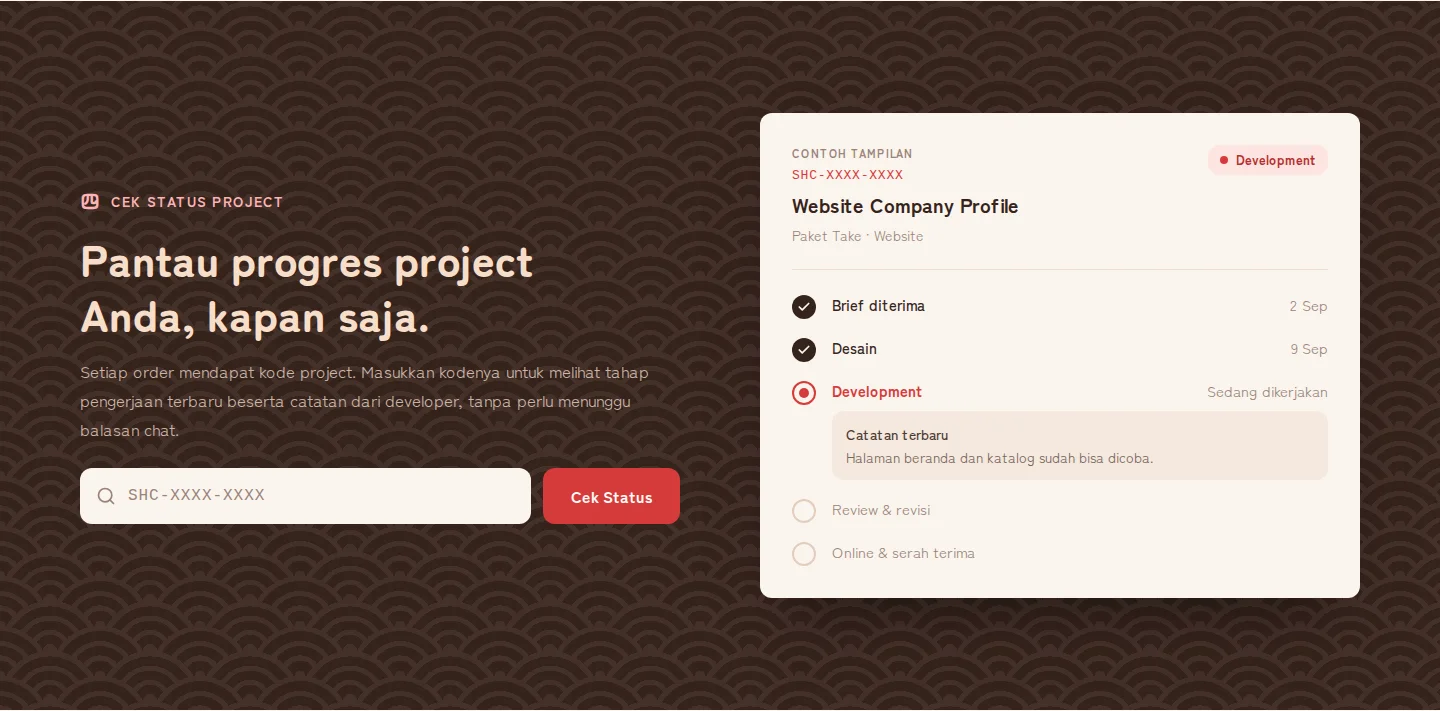
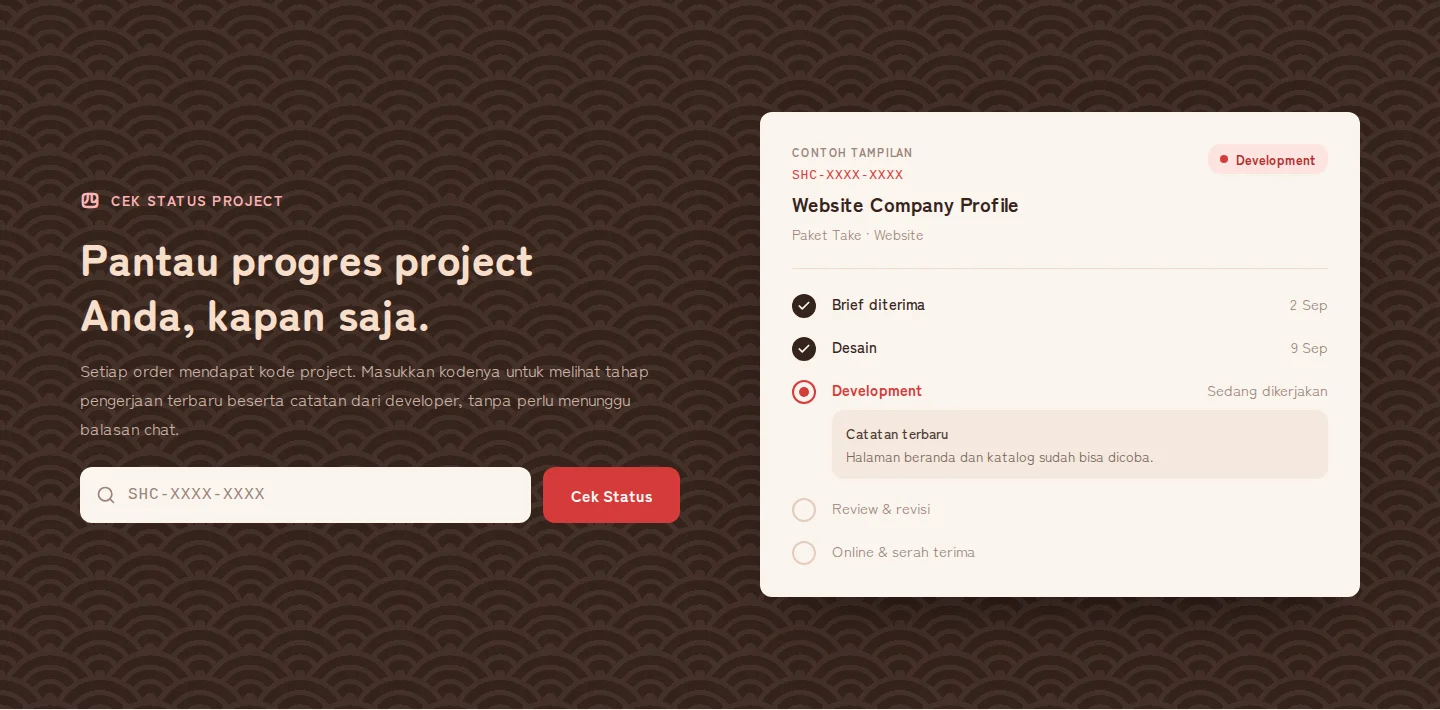
Drop the WordPress service, show only Monshika and yushika.my.id in the portfolio
- Five services laid out as three plus two wider cards
- Portfolio grid keeps rows full for any number of items
- Default WhatsApp number in 62 format; README screenshots refreshed

diff --git a/resources/js/components/landing/services.tsx b/resources/js/components/landing/services.tsx
@@ -1,12 +1,6 @@
-import {
-    AppWindow,
-    Plug,
-    Server,
-    ShieldCheck,
-    Smartphone,
-    Wrench,
-} from 'lucide-react';
+import { AppWindow, Plug, Server, ShieldCheck, Smartphone } from 'lucide-react';
 import { Container, SectionHeading } from '@/components/landing/primitives';
+import { cn } from '@/lib/utils';
 
 const services = [
     {
@@ -38,13 +32,6 @@ const services = [
         tags: ['Hapus malware', 'Tutup celah'],
     },
     {
-        icon: Wrench,
-        title: 'Perbaikan WordPress',
-        description:
-            'Plugin error, tampilan berantakan, website lambat, atau mati setelah update. Masalahnya dicari sampai ke akar, bukan sekadar ditambal.',
-        tags: ['WordPress', 'Elementor'],
-    },
-    {
         icon: Plug,
         title: 'Integrasi Sistem',
         description:
@@ -73,12 +60,18 @@ export function Services() {
                     </p>
                 </div>
 
-                <ul className="grid gap-3.5 md:grid-cols-3 md:gap-6">
+                {/* Six columns: the first row takes three cards, the second row two wider ones, so no gap is left. */}
+                <ul className="grid gap-3.5 md:grid-cols-6 md:gap-6">
                     {services.map(
-                        ({ icon: Icon, title, description, tags }) => (
+                        ({ icon: Icon, title, description, tags }, index) => (
                             <li
                                 key={title}
-                                className="border-line bg-surface flex flex-col gap-3 rounded-xl border p-6 sm:gap-5 sm:p-9"
+                                className={cn(
+                                    'border-line bg-surface flex flex-col gap-3 rounded-xl border p-6 sm:gap-5 sm:p-9',
+                                    index < 3
+                                        ? 'md:col-span-2'
+                                        : 'md:col-span-3',
+                                )}
                             >
                                 <div className="flex items-center gap-3.5 md:flex-col md:items-start md:gap-5">
                                     <span className="bg-shu-soft text-shu flex size-11 shrink-0 items-center justify-center rounded-xl sm:size-[52px]">

diff --git a/resources/js/data/portfolio.ts b/resources/js/data/portfolio.ts
@@ -27,34 +27,4 @@ export const portfolio: PortfolioItem[] = [
         image: '/images/portfolio/yushika-portfolio.webp',
         url: 'https://yushika.my.id',
     },
-    {
-        title: 'RuangKelas',
-        category: 'Sistem Web · Laravel',
-        summary:
-            'LMS sekolah dengan empat peran, nilai berbobot, dan kuis acak per siswa. Dikerjakan untuk Script Media.',
-        image: '/images/portfolio/ruangkelas-lms.webp',
-    },
-    {
-        title: 'Sewa Toko Online',
-        category: 'Sistem Web · Laravel',
-        summary:
-            'Platform sewa toko online: etalase untuk pembeli, panel paket dan tagihan, pembayaran Midtrans. Dikerjakan untuk Script Media.',
-        image: '/images/portfolio/sewa-toko-online.webp',
-    },
-    {
-        title: 'Pondok Panggung',
-        category: 'Website · WordPress',
-        summary:
-            'Perawatan dan pengembangan lanjutan website klien. Dikerjakan di GSM Studio.',
-        image: '/images/portfolio/pondok-panggung.webp',
-        url: 'https://pondokpanggung.com',
-    },
-    {
-        title: 'Script Media',
-        category: 'Website · WordPress',
-        summary:
-            'Ikut mengerjakan website perusahaan Script Media saat bekerja di GSM Studio.',
-        image: '/images/portfolio/script-media.webp',
-        url: 'https://script-media.net',
-    },
 ];

diff --git a/resources/js/components/landing/portfolio.tsx b/resources/js/components/landing/portfolio.tsx
@@ -1,5 +1,6 @@
 import { Container, SectionHeading } from '@/components/landing/primitives';
 import { portfolio } from '@/data/portfolio';
+import { cn } from '@/lib/utils';
 
 export function Portfolio() {
     if (portfolio.length === 0) {
@@ -18,7 +19,17 @@ export function Portfolio() {
                     title="Karya terpilih."
                 />
 
-                <ul className="grid gap-7 md:grid-cols-3 md:gap-6">
+                <ul
+                    className={cn(
+                        'grid gap-7 md:gap-6',
+                        // Rows stay full: three per row for 3, 6, 9 items, four for 4, otherwise two.
+                        portfolio.length % 3 === 0
+                            ? 'md:grid-cols-3'
+                            : portfolio.length === 4
+                              ? 'md:grid-cols-2 xl:grid-cols-4'
+                              : 'md:grid-cols-2',
+                    )}
+                >
                     {portfolio.map((item) => (
                         <li
                             key={item.title}

diff --git a/resources/js/pages/public/home.tsx b/resources/js/pages/public/home.tsx
@@ -21,7 +21,7 @@ export default function Home({ categories }: Props) {
                 <meta
                     head-key="description"
                     name="description"
-                    content="ShikaComp oleh Yushika: jasa pembuatan website (Laravel & React), aplikasi mobile (Flutter), deploy dan maintenance server, pemulihan website kena hack, perbaikan WordPress, dan integrasi sistem untuk UMKM, startup, instansi, dan personal."
+                    content="ShikaComp oleh Yushika: jasa pembuatan website (Laravel & React), aplikasi mobile (Flutter), deploy dan maintenance server, pemulihan website kena hack, dan integrasi sistem untuk UMKM, startup, instansi, dan personal."
                 />
             </Head>
 

diff --git a/resources/js/components/landing/site-footer.tsx b/resources/js/components/landing/site-footer.tsx
@@ -31,7 +31,6 @@ export function SiteFooter() {
                         <a href="/#layanan">Aplikasi Mobile</a>
                         <a href="/#layanan">Deploy &amp; Maintenance</a>
                         <a href="/#layanan">Pemulihan Website Kena Hack</a>
-                        <a href="/#layanan">Perbaikan WordPress</a>
                         <a href="/#layanan">Integrasi Sistem</a>
                     </FooterColumn>
 

diff --git a/config/shikacomp.php b/config/shikacomp.php
@@ -12,7 +12,7 @@ return [
     |
     */
 
-    'whatsapp' => env('SHIKACOMP_WHATSAPP', '0822-3336-5018'),
+    'whatsapp' => env('SHIKACOMP_WHATSAPP', '6282233365018'),
 
     'email' => env('SHIKACOMP_EMAIL'),
 
